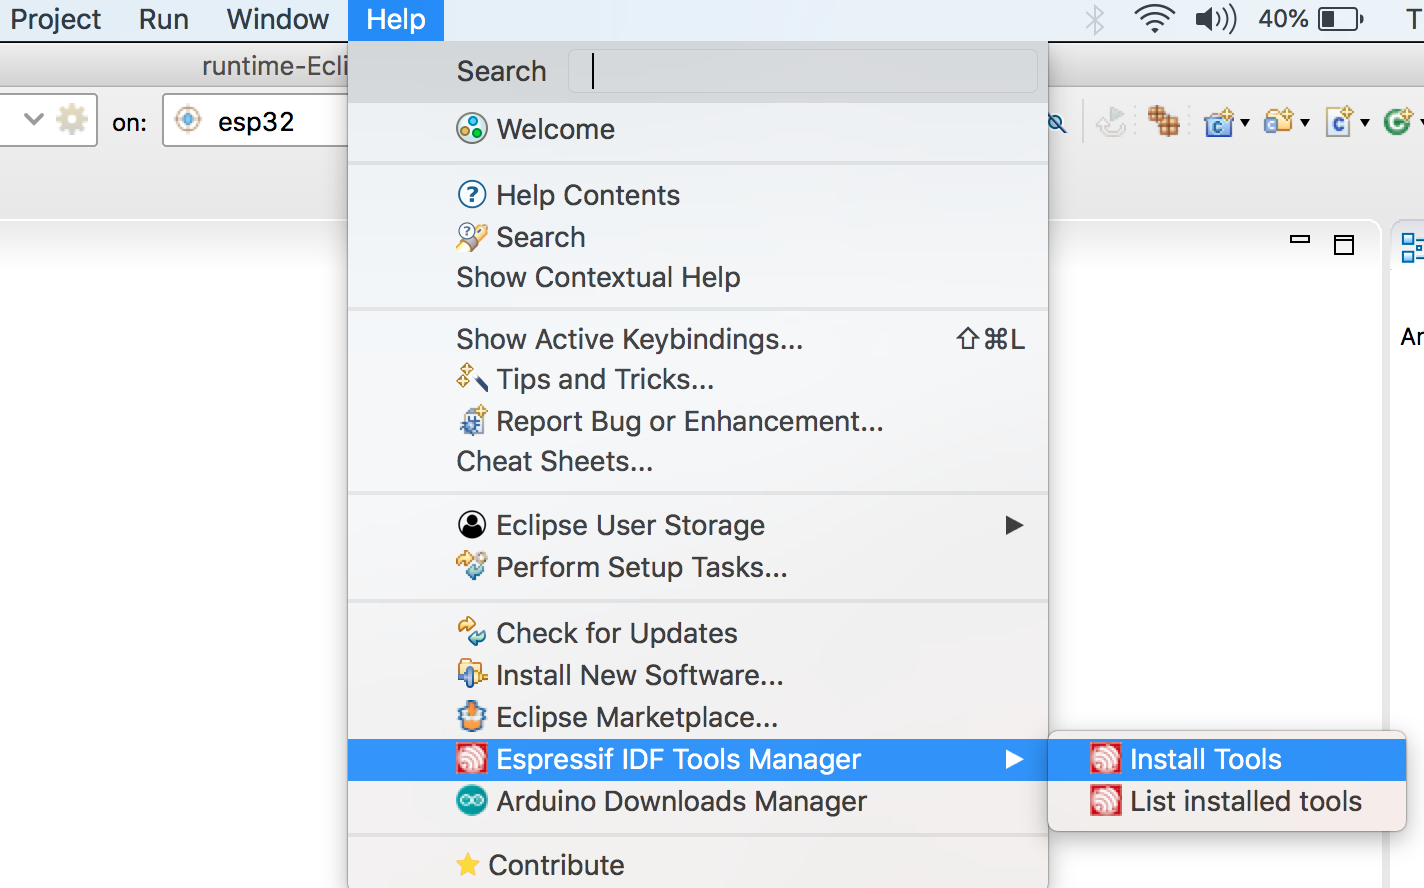
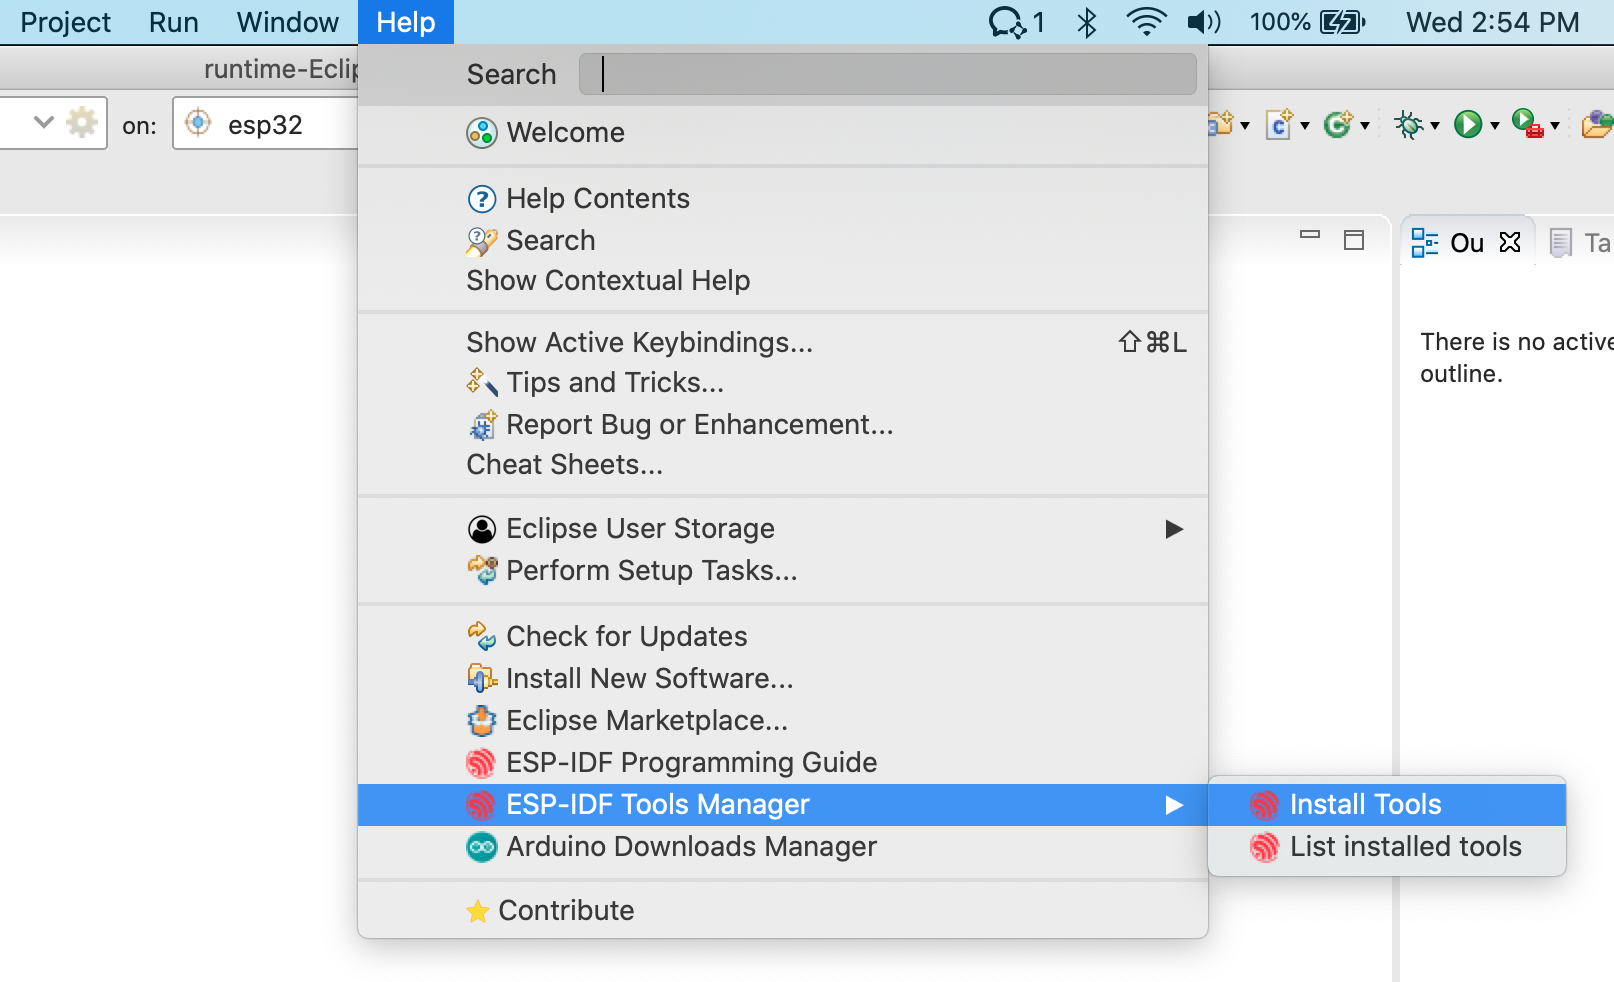
Update doc on ESP-IDF Install tools

diff --git a/README.md b/README.md
@@ -57,7 +57,7 @@ ESP-IDF requires some prerequisite tools to be installed so you can build firmwa
 
 For this getting started guide, follow the instructions below.
 
-* Navigate to `Help` > `Espressif IDF Tools Manager` > `Install Tools`
+* Navigate to `Help` > `ESP-IDF Tools Manager` > `Install Tools`
 * Provide the `ESP-IDF Directory` path
 * Provide `Git` and `Python` executable locations if they are not auto-detected.
 * Click on `Install Tools` to proceed with the installation process. Check the Console for the installation details.
@@ -169,7 +169,7 @@ Please refer to [Importing Debug Launch Configuration](#customizeLaunchConfig) s
 
 <a name="configureEnvironmentVariables"></a>
 # Configuring Environment Variables
-Eclipse auto configures the required environment variables in the `Preferences > C/C++ Build > Environment` section if IDF Tools are installed using `Help` > `Espressif IDF Tools Manager` > `Install Tools` menu option.
+Eclipse auto configures the required environment variables in the `Preferences > C/C++ Build > Environment` section if IDF Tools are installed using `Help` > `ESP-IDF Tools Manager` > `Install Tools` menu option.
 
 Required environment variables:
 * IDF_PATH
@@ -204,7 +204,7 @@ For example, to get the system environment PATH.
 ![](docs/images/2_environment_pref.png)
 
 # Configuring Toolchains
-We need to tell Eclipse CDT what core build toolchain and CMake toolchain need to be used to build the project. However, this will be auto-detected if you've installed the tools using the `Help > Espressif IDF Tools Manager > Install Tools` option from the Eclipse.
+We need to tell Eclipse CDT what core build toolchain and CMake toolchain need to be used to build the project. However, this will be auto-detected if you've installed the tools using the `Help > ESP-IDF Tools Manager > Install Tools` option from the Eclipse.
 
 If these toolchains are not detected for any reason, please follow the step by step instructions below to add a new toolchain.
 
@@ -281,7 +281,7 @@ Go to `Preferences > C/C++ > Build > Logging`
 ## Espressif IDF Tools Console
 The Espressif IDF Tools Console is part of Console view, this will be opened only during the installation of IDF tools from the Eclipse. 
 
-If you encounter any issue while installing the IDF tools using `Help > Espressif Tools Manager > Install tools`, please check the Espressif IDF Tools Console to see the errors reported.
+If you encounter any issue while installing the IDF tools using `Help > ESP-IDF Tools Manager > Install tools`, please check the Espressif IDF Tools Console to see the errors reported.
 
 If this is not active, it can be switched by clicking on the `Display Selected Console` icon from the console view.
 
